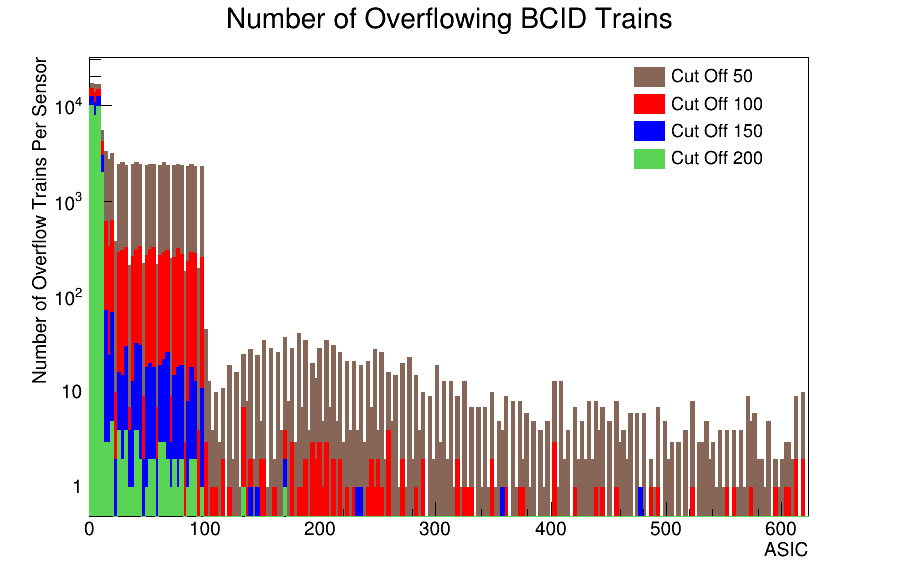
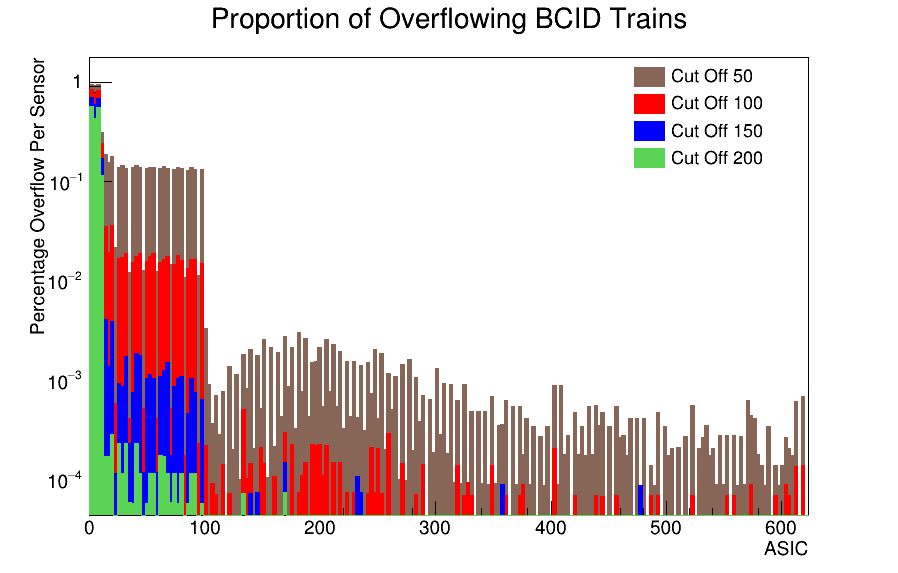
Output now % - NM

diff --git a/data_Train_Size_Analysis/size_analysis.h b/data_Train_Size_Analysis/size_analysis.h
@@ -38,6 +38,10 @@ int main(int argc, char ** argv)
 
 	/* Write root file */
 	TFile 	* out_file = new TFile("data_train_length_analysis.root","RECREATE");
+	TH1F	* overflow_histo_0 = new TH1F(
+		"overflow_histo_0",
+		"overflow histo 0",
+		208,0,623);
 	TH1F	* overflow_histo_50 = new TH1F(
 		"overflow_histo_50",
 		"overflow histo 50",
@@ -54,6 +58,13 @@ int main(int argc, char ** argv)
 		"overflow_histo_200",
 		"overflow histo 200",
 		208,0,623);
+
+	//Event counting
+	int count_total(0);
+	int count_50(0);
+	int count_100(0);
+	int count_150(0);
+	int count_200(0);
 
 	for (int i(0); i < 624; i++)
 	{
@@ -73,7 +84,7 @@ int main(int argc, char ** argv)
 		TH1F * histo = new TH1F(
 			histoName.str().c_str(),
 			histoName.str().c_str(),
-			120,0,120
+			250,0,250
 			);
 
 		/* Get data from file and input to histo */
@@ -81,7 +92,6 @@ int main(int argc, char ** argv)
 		int bcid_last(-1);
 		data_train data;
 		bool wait_on = true;
-		int count(0);
 		while(*in_file >> buffer)
 		{
 			#ifdef __debug__
@@ -96,7 +106,7 @@ int main(int argc, char ** argv)
 					std::cout << "BCID Change" << std::endl;
 				#endif
 
-				if (bcid_last - bcid > 400 && wait_on)
+				// if (bcid_last - bcid > 400 && wait_on)
 				// {
 				// 	wait_on = false;
 				// 	std::cout << "start: " << count << " bcid: " << bcid<< std::endl;
@@ -117,16 +127,29 @@ int main(int argc, char ** argv)
 				histo->Fill(data.get_size());
 
 				if (data.get_size() > 200)
+				{
 					overflow_histo_200->Fill(i);
+					count_200++;
+				}
 				if (data.get_size() > 150)
+				{
 					overflow_histo_150->Fill(i);
+					count_150++;
+				}
 				if (data.get_size() > 100)
+				{
 					overflow_histo_100->Fill(i);
+					count_100++;
+				}
 				if (data.get_size() > 50)
+				{
 					overflow_histo_50->Fill(i);
+					count_50++;
+				}
+				overflow_histo_0->Fill(i);
 
 				data.reset();
-				count ++;
+				count_total ++;
 			}
 
 			data.add_spp(buffer);
@@ -142,8 +165,15 @@ int main(int argc, char ** argv)
 	overflow_histo_150->Write();
 	overflow_histo_100->Write();
 	overflow_histo_50->Write();
+	overflow_histo_0->Write();
 	out_file->Close();
 	
+
+	std::cout << "Total Number of Data Trains: " << count_total << std::endl
+		<< "Data Train Length > 50  : " << count_50 << " : " << double(count_50)*100/count_total << "%"<< std::endl
+		<< "Data Train Length > 100 : " << count_100 << " : " << double(count_100)*100/count_total << "%"<< std::endl
+		<< "Data Train Length > 150 : " << count_150 << " : " << double(count_150)*100/count_total << "%"<< std::endl
+		<< "Data Train Length > 200 : " << count_200 << " : " << double(count_200)*100/count_total << "%"<< std::endl;
 	// for (int i(0); i < 10; i++)
 	// 	std::cout << "Blast Off!" << std::endl;
 }

diff --git a/data_Train_Size_Analysis/draw_cutoff_histo.C b/data_Train_Size_Analysis/draw_cutoff_histo.C
@@ -2,6 +2,7 @@ void draw_cutoff_histo()
 {
 	TFile * infile = new TFile ("data_train_length_analysis.root");
 
+	TH1F * histo0 = (TH1F*) infile->Get("overflow_histo_0");
 	TH1F * histo50 = (TH1F*) infile->Get("overflow_histo_50");
 	TH1F * histo100 = (TH1F*) infile->Get("overflow_histo_100");
 	TH1F * histo150 = (TH1F*) infile->Get("overflow_histo_150");
@@ -11,29 +12,33 @@ void draw_cutoff_histo()
 
 	float markerSize = 1;
 
+	histo50->Divide(histo50,histo0,1.,1.,"b");
 	histo50->Draw("");
 	histo50->SetMarkerStyle(20);
 	histo50->SetFillColor(28);
 	histo50->SetLineColor(28);
 	histo50->SetMarkerSize(markerSize);
 
-	histo50->SetTitle("Number of Overflowing BCID Trains");
-	histo50->GetYaxis()->SetTitle("Number of Overflow Trains Per Sensor");
+	histo50->SetTitle("Proportion of Overflowing BCID Trains");
+	histo50->GetYaxis()->SetTitle("Percentage Overflow Per Sensor");
 	histo50->GetXaxis()->SetTitle("ASIC");
 	histo50->SetStats(0);
 
+	histo100->Divide(histo100,histo0,1.,1.,"b");
 	histo100->Draw("same");
 	histo100->SetMarkerStyle(20);
 	histo100->SetLineColor(2);
 	histo100->SetFillColor(2);
 	histo100->SetMarkerSize(markerSize);
 
+	histo150->Divide(histo150,histo0,1.,1.,"b");
 	histo150->Draw("same");
 	histo150->SetMarkerStyle(20);
 	histo150->SetLineColor(4);
 	histo150->SetFillColor(4);
 	histo150->SetMarkerSize(markerSize);
 
+	histo200->Divide(histo200,histo0,1.,1.,"b");
 	histo200->Draw("same");
 	histo200->SetMarkerStyle(20);
 	histo200->SetLineColor(8);
